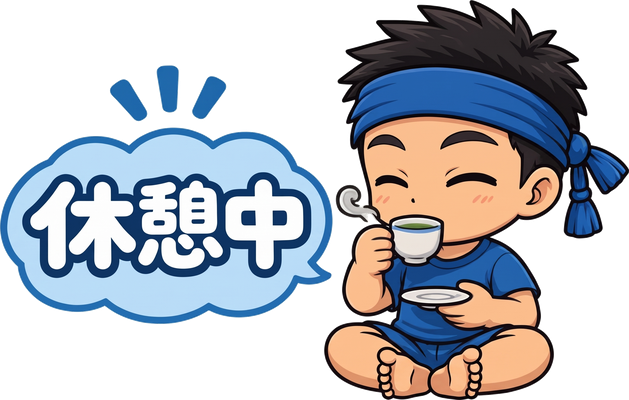
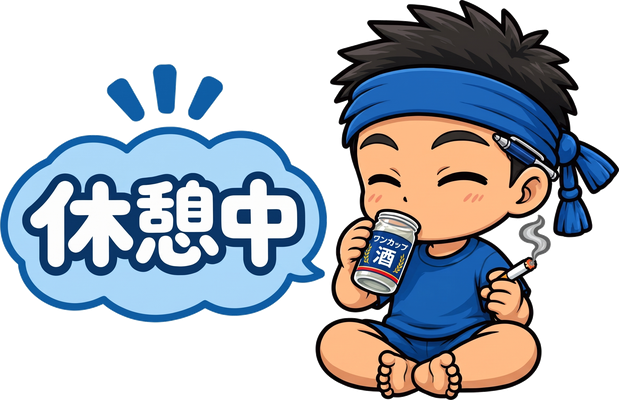
休憩中アイコン しょーた(blue)の絵を差し替え＋画像に?r=でキャッシュ回避

diff --git a/riders/index.html b/riders/index.html
@@ -19,9 +19,9 @@
      ⚠保険として CSS 側にも `env(safe-area-inset-top)` の余白を入れてある（効かない版への備え）。 -->
 <meta name="apple-mobile-web-app-status-bar-style" content="black">
 <meta name="apple-mobile-web-app-title" content="選手DB">
-<link rel="apple-touch-icon" href="icon-180.png?v=20261127-000440">
-<link rel="icon" href="icon-192.png?v=20261127-000440">
-<link rel="stylesheet" href="css/style.css?v=20261127-000440">
+<link rel="apple-touch-icon" href="icon-180.png?v=20261127-221526">
+<link rel="icon" href="icon-192.png?v=20261127-221526">
+<link rel="stylesheet" href="css/style.css?v=20261127-221526">
 </head>
 <body data-view="work">
 
@@ -113,17 +113,17 @@
 <!-- ═══════════ 出力ビュー（OBSブラウザソース・背景透明） ═══════════ -->
 <div class="outcard" id="outcard" hidden></div>
 
-<script src="../autoupdate.js?v=20261127-000440" data-au="output-only"></script>
-<script src="js/config.js?v=20261127-000440"></script>
-<script src="js/keygate.js?v=20261127-000440"></script>
-<script src="js/racetype.js?v=20261127-000440"></script>
-<script src="js/bank.js?v=20261127-000440"></script>
-<script src="js/api.js?v=20261127-000440"></script>
-<script src="js/kana.js?v=20261127-000440"></script>
-<script src="js/list.js?v=20261127-000440"></script>
-<script src="js/today.js?v=20261127-000440"></script>
-<script src="js/detail.js?v=20261127-000440"></script>
-<script src="js/output.js?v=20261127-000440"></script>
-<script src="js/main.js?v=20261127-000440"></script>
+<script src="../autoupdate.js?v=20261127-221526" data-au="output-only"></script>
+<script src="js/config.js?v=20261127-221526"></script>
+<script src="js/keygate.js?v=20261127-221526"></script>
+<script src="js/racetype.js?v=20261127-221526"></script>
+<script src="js/bank.js?v=20261127-221526"></script>
+<script src="js/api.js?v=20261127-221526"></script>
+<script src="js/kana.js?v=20261127-221526"></script>
+<script src="js/list.js?v=20261127-221526"></script>
+<script src="js/today.js?v=20261127-221526"></script>
+<script src="js/detail.js?v=20261127-221526"></script>
+<script src="js/output.js?v=20261127-221526"></script>
+<script src="js/main.js?v=20261127-221526"></script>
 </body>
 </html>

diff --git a/overlay.html b/overlay.html
@@ -3,7 +3,7 @@
 <head>
 <meta charset="utf-8">
 <title>overlay</title>
-<link rel="stylesheet" href="overlay.css?v=20261127-000440">
+<link rel="stylesheet" href="overlay.css?v=20261127-221526">
 </head>
 <body class="scene-talk" data-theme="a">
 
@@ -12,7 +12,7 @@
 
   <!-- ==== 全シーン共通ヘッダー ==== -->
   <header class="gbar">
-    <div class="sp-logo"><img src="sponsor_black.png?v=20261127-000440" alt="競輪公式投票CTC"></div>
+    <div class="sp-logo"><img src="sponsor_black.png?v=20261127-221526" alt="競輪公式投票CTC"></div>
     <div class="venue-tabs" id="vtabs"></div>
     <div class="camp-box hidden" id="camp-box"><span class="camp-label">本日のキャンペーン応募人数</span><span class="camp-num" id="camp-num"></span></div>
     <div class="clock-box"><span class="clock-date" data-clock-date></span><span class="clock-time" data-clock-time></span></div>
@@ -178,7 +178,7 @@
   <!-- ================= ⑤広告シーン ================= -->
   <section class="scene" id="scene-ad">
     <div class="panel ad-panel">
-      <div class="ad-logo"><img src="sponsor.png?v=20261127-000440" alt="競輪公式投票CTC"></div>
+      <div class="ad-logo"><img src="sponsor.png?v=20261127-221526" alt="競輪公式投票CTC"></div>
       <div class="ad-title" id="ad-title"></div>
       <ul class="ad-list" id="ad-list"></ul>
       <div class="ad-progress" id="ad-progress">
@@ -198,11 +198,11 @@
 
 <div class="dbg" id="dbg"></div>
 
-<script src="autoupdate.js?v=20261127-000440" data-au="reload"></script>
-<script src="config.js?v=20261127-000440"></script>
-<script src="keirin.js?v=20261127-000440"></script>
-<script src="derive.js?v=20261127-000440"></script>
-<script src="sync.js?v=20261127-000440"></script>
-<script src="overlay.js?v=20261127-000440"></script>
+<script src="autoupdate.js?v=20261127-221526" data-au="reload"></script>
+<script src="config.js?v=20261127-221526"></script>
+<script src="keirin.js?v=20261127-221526"></script>
+<script src="derive.js?v=20261127-221526"></script>
+<script src="sync.js?v=20261127-221526"></script>
+<script src="overlay.js?v=20261127-221526"></script>
 </body>
 </html>

diff --git a/tenkai-v2/index.html b/tenkai-v2/index.html
@@ -4,7 +4,7 @@
 <meta charset="UTF-8">
 <meta name="viewport" content="width=device-width, initial-scale=1">
 <title>競輪 展開ボード v2</title>
-<link rel="stylesheet" href="css/style.css?v=20261127-000440">
+<link rel="stylesheet" href="css/style.css?v=20261127-221526">
 </head>
 <body>
 
@@ -120,20 +120,20 @@
 
 </div>
 
-<script src="../autoupdate.js?v=20261127-000440" data-au="output-only"></script>
-<script src="js/config.js?v=20261127-000440"></script>
-<script src="js/track.js?v=20261127-000440"></script>
-<script src="js/state.js?v=20261127-000440"></script>
-<script src="js/icons.js?v=20261127-000440"></script>
-<script src="js/bars.js?v=20261127-000440"></script>
-<script src="js/board.js?v=20261127-000440"></script>
-<script src="js/racecard.js?v=20261127-000440"></script>
-<script src="js/live.js?v=20261127-000440"></script>
-<script src="js/lineup.js?v=20261127-000440"></script>
-<script src="js/anim.js?v=20261127-000440"></script>
-<script src="js/undo.js?v=20261127-000440"></script>
-<script src="js/verbs.js?v=20261127-000440"></script>
-<script src="js/drag.js?v=20261127-000440"></script>
-<script src="js/main.js?v=20261127-000440"></script>
+<script src="../autoupdate.js?v=20261127-221526" data-au="output-only"></script>
+<script src="js/config.js?v=20261127-221526"></script>
+<script src="js/track.js?v=20261127-221526"></script>
+<script src="js/state.js?v=20261127-221526"></script>
+<script src="js/icons.js?v=20261127-221526"></script>
+<script src="js/bars.js?v=20261127-221526"></script>
+<script src="js/board.js?v=20261127-221526"></script>
+<script src="js/racecard.js?v=20261127-221526"></script>
+<script src="js/live.js?v=20261127-221526"></script>
+<script src="js/lineup.js?v=20261127-221526"></script>
+<script src="js/anim.js?v=20261127-221526"></script>
+<script src="js/undo.js?v=20261127-221526"></script>
+<script src="js/verbs.js?v=20261127-221526"></script>
+<script src="js/drag.js?v=20261127-221526"></script>
+<script src="js/main.js?v=20261127-221526"></script>
 </body>
 </html>

diff --git a/tenkai/index.html b/tenkai/index.html
@@ -4,7 +4,7 @@
 <meta charset="UTF-8">
 <meta name="viewport" content="width=device-width, initial-scale=1">
 <title>競輪 展開ボード</title>
-<link rel="stylesheet" href="css/style.css?v=20261127-000440">
+<link rel="stylesheet" href="css/style.css?v=20261127-221526">
 </head>
 <body>
 
@@ -126,20 +126,20 @@
 
 </div>
 
-<script src="../autoupdate.js?v=20261127-000440" data-au="output-only"></script>
-<script src="js/config.js?v=20261127-000440"></script>
-<script src="js/track.js?v=20261127-000440"></script>
-<script src="js/state.js?v=20261127-000440"></script>
-<script src="js/icons.js?v=20261127-000440"></script>
-<script src="js/bars.js?v=20261127-000440"></script>
-<script src="js/board.js?v=20261127-000440"></script>
-<script src="js/racecard.js?v=20261127-000440"></script>
-<script src="js/live.js?v=20261127-000440"></script>
-<script src="js/lineup.js?v=20261127-000440"></script>
-<script src="js/anim.js?v=20261127-000440"></script>
-<script src="js/undo.js?v=20261127-000440"></script>
-<script src="js/verbs.js?v=20261127-000440"></script>
-<script src="js/drag.js?v=20261127-000440"></script>
-<script src="js/main.js?v=20261127-000440"></script>
+<script src="../autoupdate.js?v=20261127-221526" data-au="output-only"></script>
+<script src="js/config.js?v=20261127-221526"></script>
+<script src="js/track.js?v=20261127-221526"></script>
+<script src="js/state.js?v=20261127-221526"></script>
+<script src="js/icons.js?v=20261127-221526"></script>
+<script src="js/bars.js?v=20261127-221526"></script>
+<script src="js/board.js?v=20261127-221526"></script>
+<script src="js/racecard.js?v=20261127-221526"></script>
+<script src="js/live.js?v=20261127-221526"></script>
+<script src="js/lineup.js?v=20261127-221526"></script>
+<script src="js/anim.js?v=20261127-221526"></script>
+<script src="js/undo.js?v=20261127-221526"></script>
+<script src="js/verbs.js?v=20261127-221526"></script>
+<script src="js/drag.js?v=20261127-221526"></script>
+<script src="js/main.js?v=20261127-221526"></script>
 </body>
 </html>

diff --git a/console.html b/console.html
@@ -4,7 +4,7 @@
 <meta charset="utf-8">
 <meta name="viewport" content="width=device-width, initial-scale=1">
 <title>配信コンソール</title>
-<link rel="stylesheet" href="console.css?v=20261127-000440">
+<link rel="stylesheet" href="console.css?v=20261127-221526">
 </head>
 <body>
 
@@ -272,11 +272,11 @@
 </div>
 </main>
 
-<script src="autoupdate.js?v=20261127-000440" data-au="banner"></script>
-<script src="config.js?v=20261127-000440"></script>
-<script src="keirin.js?v=20261127-000440"></script>
-<script src="derive.js?v=20261127-000440"></script>
-<script src="sync.js?v=20261127-000440"></script>
-<script src="console.js?v=20261127-000440"></script>
+<script src="autoupdate.js?v=20261127-221526" data-au="banner"></script>
+<script src="config.js?v=20261127-221526"></script>
+<script src="keirin.js?v=20261127-221526"></script>
+<script src="derive.js?v=20261127-221526"></script>
+<script src="sync.js?v=20261127-221526"></script>
+<script src="console.js?v=20261127-221526"></script>
 </body>
 </html>

diff --git a/console.js b/console.js
@@ -2720,7 +2720,7 @@
       var r = by[s], side = s === "a" ? "左" : "右";
       var mc = r ? window.Derive.colorOf(r.color) : "";
       var on = !!(r && r.brk);
-      var thumb = BRKUI === "b" && r && BRK_KEY[r.color] ? '<img class="bk-thumb" alt="" src="break_' + BRK_KEY[r.color] + '.png">' : "";
+      var thumb = BRKUI === "b" && r && BRK_KEY[r.color] ? '<img class="bk-thumb" alt="" src="break_' + BRK_KEY[r.color] + '.png?r=20261127">' : "";
       return '<button class="btn brk-btn' + (on ? " brk-on" : "") + '" data-seat="' + s + '"' + (r ? "" : " disabled") + (mc ? ' style="--mc:' + mc + '"' : "") + '>' + thumb + '<span class="bk-txt">' +
         '<span class="bk-main">' + (on ? (BTNUI !== "0" ? "☕ 休憩中" : "☕ 休憩中（押すと戻る）") : "☕ 休憩に入る") /* 11/26 札「戻す ▶」があるときは短く */ + "</span>" +
         '<span class="bk-sub">' + side + "の席：" + esc(r ? r.name : "なし") + "</span></span></button>";

diff --git a/overlay.js b/overlay.js
@@ -164,7 +164,7 @@
       var img = cam.querySelector(":scope > .brk-ic");
       if (!key) { if (img) img.remove(); return; }
       if (!img) { img = document.createElement("img"); img.className = "brk-ic"; img.alt = ""; cam.appendChild(img); }
-      var src = "break_" + key + ".png";
+      var src = "break_" + key + ".png?r=20261127"; // 11/27 しょーたの絵を差し替え＝古い絵のキャッシュを避ける（絵を替えたらこの数字も替える）
       if (img.getAttribute("src") !== src) img.setAttribute("src", src);
     });
   }

diff --git a/autoupdate.js b/autoupdate.js
@@ -28,7 +28,7 @@
 
 (function () {
   "use strict";
-  var AU_BUILD = "20261127-000440";
+  var AU_BUILD = "20261127-221526";
 
   var params;
   try { params = new URLSearchParams(location.search); } catch (e) { return; }
